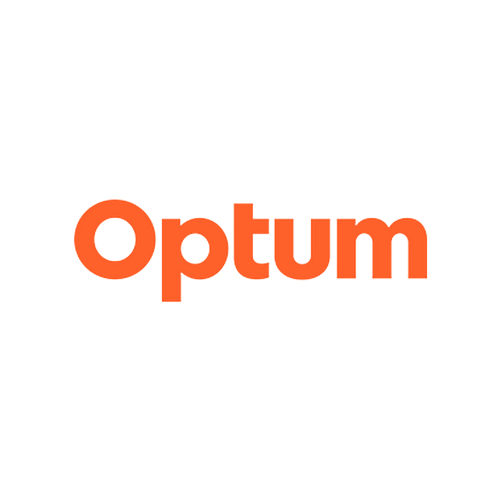
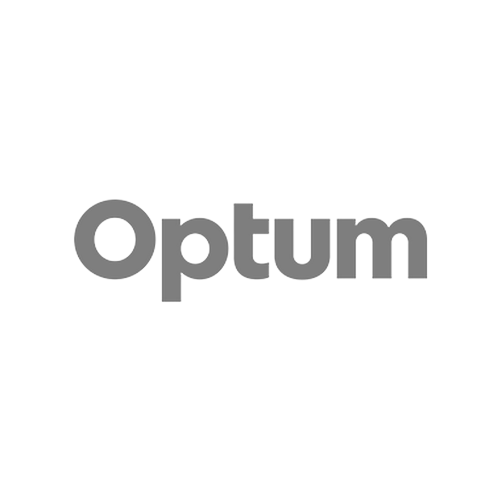
Grayscale clients, add meta-og

Changed region(s): [[0.15, 0.39, 0.87, 0.63]]

diff --git a/index.html b/index.html
@@ -3,15 +3,28 @@
 <head>
     <meta charset="UTF-8">
     <meta http-equiv="X-UA-Compatible" content="IE=edge">
+    <meta property="og:locale" content="en_US">
+    <meta property="og:title" content="Charles Yee "> <!-- Bold Title -->
+    <meta property="og:type" content="website">
+    <meta property="og:description" content="NLP, Machine Learning
+    Backend Consulting
+    Leader in Machine Learning/Deep Neural Networks for Natural Language Processing. Specialized in Healthcare Industry"> <!-- Sub-story summary hero section -->
+    <meta property="og:image" content="https://charlesyee.com/images/charles-hero-v1.jpg">
+    <meta property="og:image:width" content="385"> <!-- Size in px -->
+    <meta property="og:image:height" content="385"> <!-- Size in px -->
+    <meta property="og:image:type" content="image/jpg">
+    <meta property="og:url" content="https://charlesyee.com">
+    <!-- <meta name="twitter:site" content="@charlesyee">  @todo verify Charles twitter -->
+
     <meta name="viewport" content="width=device-width, initial-scale=1.0, viewport-fit=cover">
     <meta name="description" content="Charles Yee
     NLP, Machine Learning
     Backend Consulting
     Leader in Machine Learning/Deep Neural Networks for Natural Language Processing. Specialized in Healthcare Industry">
     <link rel="stylesheet" href="https://unpkg.com/flowbite@1.5.1/dist/flowbite.min.css"/>
-    <link rel="apple-touch-icon" sizes="180x180" href="/favicon_io/FavIcon.png">
-    <link rel="icon" type="image/png" sizes="32x32" href="/favicon_io/FavIcon.png">
-    <link rel="icon" type="image/png" sizes="16x16" href="/favicon_io/FavIcon.png">
+    <link rel="apple-touch-icon" sizes="180x180" href="./favicon_io/favicon-2.png">
+    <link rel="icon" type="image/png" sizes="16x16" href="./favicon_io/favicon-2.png">
+    <link rel="icon" type="image/png" sizes="32x32" href="./favicon_io/favicon-2.png">
     <link rel="preconnect" href="https://fonts.googleapis.com">
     <link rel="preconnect" href="https://fonts.gstatic.com" crossorigin>
     <link href="https://fonts.googleapis.com/css2?family=Alata&family=Josefin+Sans:wght@300&display=swap"
@@ -379,33 +392,34 @@
 
 <!-- Charles' Clients -->
 <section class="bg-gray-300 py-8">
-    <h2 class="font-alata uppercase text-2xl md:text-4xl font-bold text-slate-100 text-center pt-24"
+    <h2 class="font-alata uppercase text-2xl md:text-4xl font-bold text-black text-center pt-24"
     data-aos="zoom-in"
     data-aos-duration="2000">
     charles' clients
 </h2>
-<div class="grid grid-cols-2 gap-4 my-8 lg:grid-cols-6" data-aos="zoom-in"
-data-aos-duration="2000">
-    <div class="w-24 h-24 mx-auto my-auto">
-        <img class="mx-auto pt-4" src="./images/charles-clients/client-astra.png" alt="">
+<div class="grid grid-cols-2 gap-4 my-8 md:grid-cols-3 lg:grid-cols-6" data-aos="zoom-in"
+    data-aos-duration="2000">
+        <div class="w-36 h-36 mx-auto my-auto">
+            <img class="mx-auto pt-6" src="./images/charles-clients/client-astra.png" alt="AstraZeneca Logo">
+        </div>
+        <div class="w-36 h-36 mx-auto pt-10">
+            <img class="mx-auto my-auto" src="./images/charles-clients/client-bc.png" alt="Boston Children's Hospital Logo">
+        </div>
+        <div class="w-36 h-36 mx-auto pt-12">
+            <img class="mx-auto my-auto" src="./images/charles-clients/client-dana.png" alt="Dana-Farber Cancer Institute Logo">
+        </div>
+        <div class="w-36 h-36 mx-auto ">
+            <img class="mx-auto my-auto" src="./images/charles-clients/client-optum.png" alt="Optum Health Logo">
+        </div>
+        <div class="w-36 h-36 mx-auto pt-4">
+            <img class="h-24 mx-auto my-auto" src="./images/charles-clients/client-phillips.png" alt="Phillips 
+            healthcare Logo">
+        </div>
+        <div class="w-36 h-36 mx-auto pt-6">
+            <img class="mx-auto my-auto" src="./images/charles-clients/client-uhg.png" alt="United Health Group Logo">
+        </div>
+        
     </div>
-    <div class="w-24 h-24 mx-auto pt-6">
-        <img class="mx-auto my-auto" src="./images/charles-clients/client-bc.png" alt="">
-    </div>
-    <div class="w-24 h-24 mx-auto pt-8">
-        <img class="mx-auto my-auto" src="./images/charles-clients/client-dana.png" alt="">
-    </div>
-    <div class="w-24 h-24 mx-auto my-auto">
-        <img class="mx-auto my-auto" src="./images/charles-clients/client-optum.png" alt="">
-    </div>
-    <div class="w-24 h-24 mx-auto pt-4">
-        <img class="h-14 mx-auto my-auto" src="./images/charles-clients/client-phillips.png" alt="">
-    </div>
-    <div class="w-24 h-24 mx-auto pt-6">
-        <img class="mx-auto my-auto" src="./images/charles-clients/client-uhg.png" alt="">
-    </div>
-    
-</div>
 </section>
 
 <!-- Recommendations Carousel Section -->
@@ -684,37 +698,6 @@ data-aos-duration="2000">
         </button>
     </div>
 </section> <!-- End Recommendations section -->
-
-<!-- Charles' Clients -->
-<section class="bg-gray-300 py-8">
-    <h2 class="font-alata uppercase text-2xl md:text-4xl font-bold text-black text-center pt-24"
-    data-aos="zoom-in"
-    data-aos-duration="2000">
-    charles' clients
-</h2>
-    <div class="grid grid-cols-2 gap-4 my-8 lg:grid-cols-6" data-aos="zoom-in"
-    data-aos-duration="2000">
-        <div class="w-24 h-24 mx-auto my-auto">
-            <img class="mx-auto pt-4" src="./images/charles-clients/client-astra.png" alt="">
-        </div>
-        <div class="w-24 h-24 mx-auto pt-6">
-            <img class="mx-auto my-auto" src="./images/charles-clients/client-bc.png" alt="">
-        </div>
-        <div class="w-24 h-24 mx-auto pt-8">
-            <img class="mx-auto my-auto" src="./images/charles-clients/client-dana.png" alt="">
-        </div>
-        <div class="w-24 h-24 mx-auto my-auto">
-            <img class="mx-auto my-auto" src="./images/charles-clients/client-optum.png" alt="">
-        </div>
-        <div class="w-24 h-24 mx-auto pt-4">
-            <img class="h-14 mx-auto my-auto" src="./images/charles-clients/client-phillips.png" alt="">
-        </div>
-        <div class="w-24 h-24 mx-auto pt-6">
-            <img class="mx-auto my-auto" src="./images/charles-clients/client-uhg.png" alt="">
-        </div>
-        
-    </div>
-</section>
 
 <!-- About Charles Section -->
 <section id="about" class="overflow-hidden bg-center bg-fixed bg-cover bg-no-repeat">

diff --git a/style.css b/style.css
@@ -857,12 +857,12 @@ video {
   height: 1.25rem;
 }
 
-.h-48 {
-  height: 12rem;
+.h-32 {
+  height: 8rem;
 }
 
-.h-6 {
-  height: 1.5rem;
+.h-36 {
+  height: 9rem;
 }
 
 .min-h-screen {
@@ -927,6 +927,26 @@ video {
 
 .w-1 {
   width: 0.25rem;
+}
+
+.w-32 {
+  width: 8rem;
+}
+
+.w-6 {
+  width: 1.5rem;
+}
+
+.w-36 {
+  width: 9rem;
+}
+
+.w-40 {
+  width: 10rem;
+}
+
+.w-28 {
+  width: 7rem;
 }
 
 .max-w-md {
@@ -996,12 +1016,16 @@ video {
   grid-template-columns: repeat(2, minmax(0, 1fr));
 }
 
-.flex-col {
-  flex-direction: column;
+.grid-cols-3 {
+  grid-template-columns: repeat(3, minmax(0, 1fr));
 }
 
-.flex-wrap {
-  flex-wrap: wrap;
+.grid-cols-6 {
+  grid-template-columns: repeat(6, minmax(0, 1fr));
+}
+
+.flex-col {
+  flex-direction: column;
 }
 
 .place-items-end {
@@ -1026,10 +1050,6 @@ video {
 
 .gap-12 {
   gap: 3rem;
-}
-
-.gap-2 {
-  gap: 0.5rem;
 }
 
 .gap-4 {
@@ -1323,11 +1343,6 @@ video {
   padding-bottom: 1.5rem;
 }
 
-.py-24 {
-  padding-top: 6rem;
-  padding-bottom: 6rem;
-}
-
 .pt-40 {
   padding-top: 10rem;
 }
@@ -1352,28 +1367,28 @@ video {
   padding-top: 1rem;
 }
 
+.pt-6 {
+  padding-top: 1.5rem;
+}
+
+.pt-8 {
+  padding-top: 2rem;
+}
+
 .pt-3 {
   padding-top: 0.75rem;
 }
 
-.pt-2 {
-  padding-top: 0.5rem;
-}
-
-.pt-6 {
-  padding-top: 1.5rem;
+.pt-10 {
+  padding-top: 2.5rem;
 }
 
 .pt-5 {
   padding-top: 1.25rem;
 }
 
-.pt-7 {
-  padding-top: 1.75rem;
-}
-
-.pt-8 {
-  padding-top: 2rem;
+.pt-2 {
+  padding-top: 0.5rem;
 }
 
 .text-center {
@@ -1494,11 +1509,6 @@ video {
 .text-gray-800 {
   --tw-text-opacity: 1;
   color: rgb(31 41 55 / var(--tw-text-opacity));
-}
-
-.text-slate-900 {
-  --tw-text-opacity: 1;
-  color: rgb(15 23 42 / var(--tw-text-opacity));
 }
 
 .text-black {
@@ -2059,6 +2069,10 @@ ul, ol {
     width: auto;
   }
 
+  .sm\:grid-cols-3 {
+    grid-template-columns: repeat(3, minmax(0, 1fr));
+  }
+
   .sm\:items-center {
     align-items: center;
   }
@@ -2102,10 +2116,6 @@ ul, ol {
 
   .md\:flex {
     display: flex;
-  }
-
-  .md\:grid {
-    display: grid;
   }
 
   .md\:hidden {
@@ -2226,6 +2236,10 @@ ul, ol {
     grid-template-columns: repeat(6, minmax(0, 1fr));
   }
 
+  .lg\:grid-cols-3 {
+    grid-template-columns: repeat(3, minmax(0, 1fr));
+  }
+
   .lg\:flex-row {
     flex-direction: row;
   }
@@ -2302,5 +2316,19 @@ ul, ol {
   .lg\:shadow-slate-500 {
     --tw-shadow-color: #64748b;
     --tw-shadow: var(--tw-shadow-colored);
+  }
+}
+
+@media (min-width: 480px) {
+  @media (min-width: 976px) {
+    .sm\:lg\:grid-cols-6 {
+      grid-template-columns: repeat(6, minmax(0, 1fr));
+    }
+  }
+}
+
+@media (min-width: 1440px) {
+  .xl\:grid-cols-6 {
+    grid-template-columns: repeat(6, minmax(0, 1fr));
   }
 }

diff --git a/about.html b/about.html
@@ -5,9 +5,9 @@
     <meta http-equiv="X-UA-Compatible" content="IE=edge">
     <meta name="viewport" content="width=device-width, initial-scale=1.0">
     <link rel="stylesheet" href="https://unpkg.com/flowbite@1.5.1/dist/flowbite.min.css"/>
-    <link rel="apple-touch-icon" sizes="180x180" href="/favicon_io/FavIcon.png">
-    <link rel="icon" type="image/png" sizes="32x32" href="/favicon_io/FavIcon.png">
-    <link rel="icon" type="image/png" sizes="16x16" href="/favicon_io/FavIcon.png">
+    <link rel="apple-touch-icon" sizes="180x180" href="./favicon_io/favicon-2.png">
+    <link rel="icon" type="image/png" sizes="16x16" href="./favicon_io/favicon-2.png">
+    <link rel="icon" type="image/png" sizes="32x32" href="./favicon_io/favicon-2.png">
     <link rel="preconnect" href="https://fonts.googleapis.com">
     <link rel="preconnect" href="https://fonts.gstatic.com" crossorigin>
     <link href="https://fonts.googleapis.com/css2?family=Alata&family=Josefin+Sans:wght@300&display=swap"

diff --git a/patents.html b/patents.html
@@ -5,9 +5,9 @@
     <meta http-equiv="X-UA-Compatible" content="IE=edge">
     <meta name="viewport" content="width=device-width, initial-scale=1.0">
     <link rel="stylesheet" href="https://unpkg.com/flowbite@1.5.1/dist/flowbite.min.css"/>
-    <link rel="apple-touch-icon" sizes="180x180" href="/favicon_io/FavIcon.png">
-    <link rel="icon" type="image/png" sizes="32x32" href="/favicon_io/FavIcon.png">
-    <link rel="icon" type="image/png" sizes="16x16" href="/favicon_io/FavIcon.png">
+    <link rel="apple-touch-icon" sizes="180x180" href="./favicon_io/favicon-2.png">
+    <link rel="icon" type="image/png" sizes="16x16" href="./favicon_io/favicon-2.png">
+    <link rel="icon" type="image/png" sizes="32x32" href="./favicon_io/favicon-2.png">
     <link rel="preconnect" href="https://fonts.googleapis.com">
     <link rel="preconnect" href="https://fonts.gstatic.com" crossorigin>
     <link href="https://fonts.googleapis.com/css2?family=Alata&family=Josefin+Sans:wght@300&display=swap"

diff --git a/projects.html b/projects.html
@@ -5,9 +5,9 @@
     <meta http-equiv="X-UA-Compatible" content="IE=edge">
     <meta name="viewport" content="width=device-width, initial-scale=1.0">
     <link rel="stylesheet" href="https://unpkg.com/flowbite@1.5.1/dist/flowbite.min.css"/>
-    <link rel="apple-touch-icon" sizes="180x180" href="/favicon_io/FavIcon.png">
-    <link rel="icon" type="image/png" sizes="32x32" href="/favicon_io/FavIcon.png">
-    <link rel="icon" type="image/png" sizes="16x16" href="/favicon_io/FavIcon.png">
+    <link rel="apple-touch-icon" sizes="180x180" href="./favicon_io/favicon-2.png">
+    <link rel="icon" type="image/png" sizes="16x16" href="./favicon_io/favicon-2.png">
+    <link rel="icon" type="image/png" sizes="32x32" href="./favicon_io/favicon-2.png">
     <link rel="preconnect" href="https://fonts.googleapis.com">
     <link rel="preconnect" href="https://fonts.gstatic.com" crossorigin>
     <link href="https://fonts.googleapis.com/css2?family=Alata&family=Josefin+Sans:wght@300&display=swap"

diff --git a/services.html b/services.html
@@ -5,9 +5,9 @@
     <meta http-equiv="X-UA-Compatible" content="IE=edge">
     <meta name="viewport" content="width=device-width, initial-scale=1.0">
     <link rel="stylesheet" href="https://unpkg.com/flowbite@1.5.1/dist/flowbite.min.css"/>
-    <link rel="apple-touch-icon" sizes="180x180" href="/favicon_io/FavIcon.png">
-    <link rel="icon" type="image/png" sizes="32x32" href="/favicon_io/FavIcon.png">
-    <link rel="icon" type="image/png" sizes="16x16" href="/favicon_io/FavIcon.png">
+    <link rel="apple-touch-icon" sizes="180x180" href="./favicon_io/favicon-2.png">
+    <link rel="icon" type="image/png" sizes="16x16" href="./favicon_io/favicon-2.png">
+    <link rel="icon" type="image/png" sizes="32x32" href="./favicon_io/favicon-2.png">
     <link rel="preconnect" href="https://fonts.googleapis.com">
     <link rel="preconnect" href="https://fonts.gstatic.com" crossorigin>
     <link href="https://fonts.googleapis.com/css2?family=Alata&family=Josefin+Sans:wght@300&display=swap"
